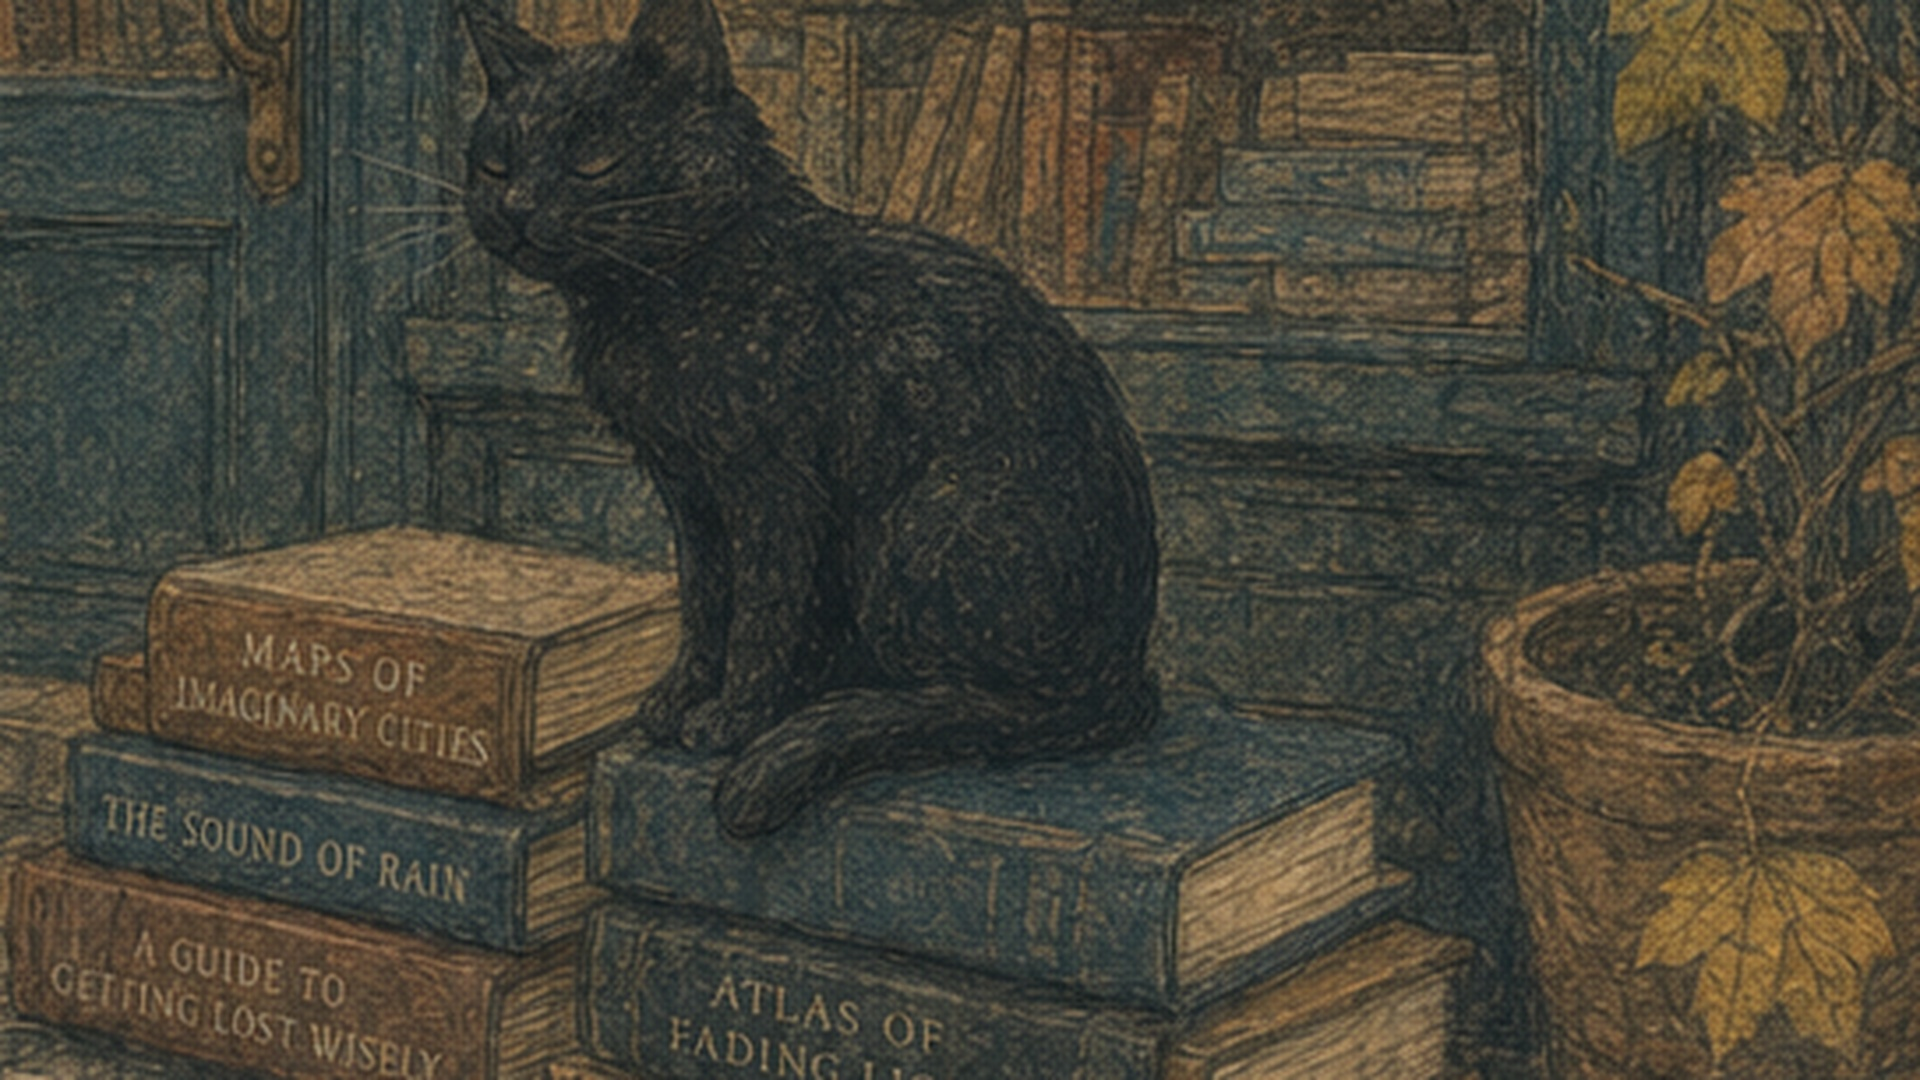
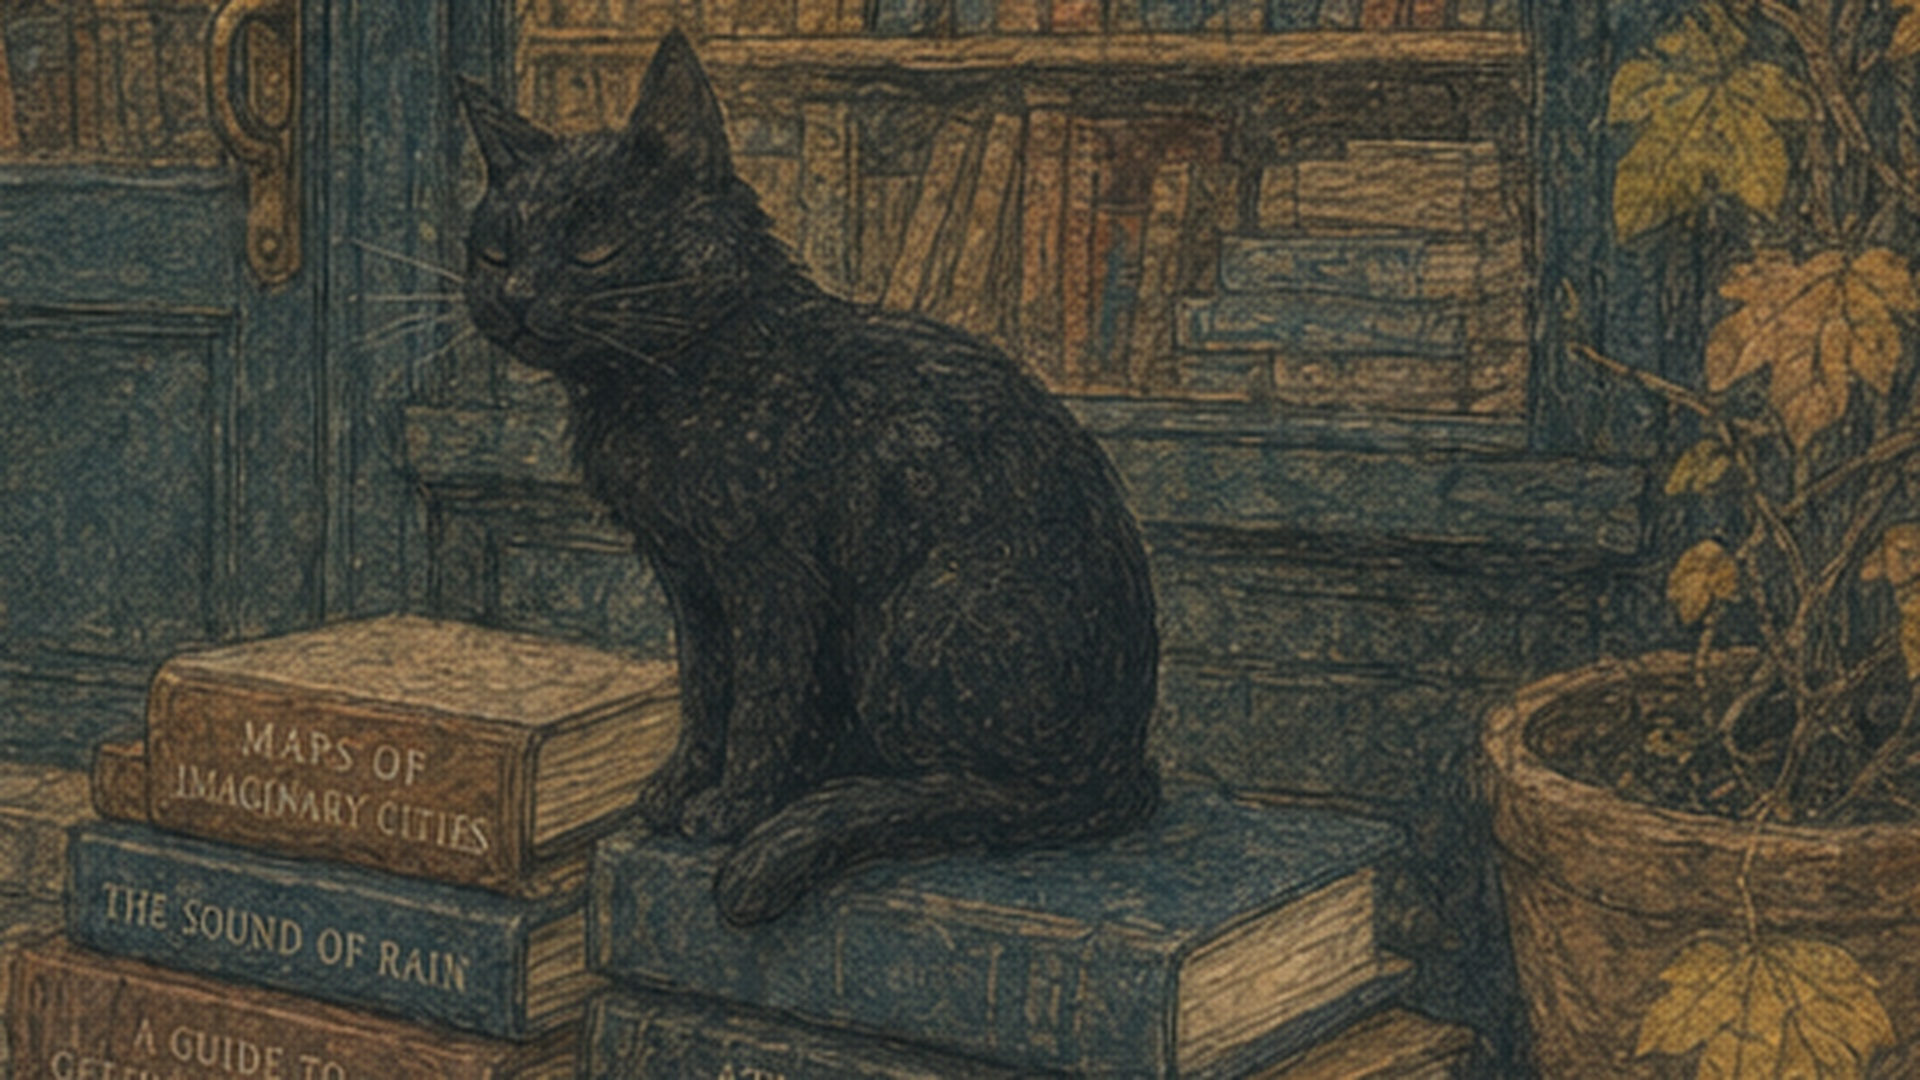
Cat crop: include ears
Claude-Session: https://claude.ai/code/session_01QRci8T51BY6ctX5Dmkwj14

diff --git a/PROJECT_NOTES.md b/PROJECT_NOTES.md
@@ -2650,4 +2650,4 @@ Shorts — НЕ делаем. Названия/шрифт/подвал — не 
 - 15.10 ХВОСТ ОСТАНОВЛЕН (решение автора: «надо заканчивать», хожу по кругу, то палка, то змея). Кот выходит БЕЗ хвоста. Что ей нужно (на будущее): кот сидит на задних лапах, передние стоят впереди — хвост мягко накрывает/обнимает передние лапы и плавно возвращается; у меня хвост изгибается в сторону от кота, возвращается палкой и замирает. Мой вывод: деформацией плоской картинки «накрыть лапы» не выйти — хвосту надо лечь поверх лап, а таких пикселей на рисунке нет; нужен второй кадр, нарисованный с хвостом вокруг лап, и плавный переход между кадрами. Не предлагать, пока она сама не вернётся к теме. Пробы — tools/proby/hvost_*.py, table_drafts/hvost_*.mp4.
 - 15.10 ПОПРАВКА: «не делай хвосты/тошнит» — шутка, я поняла буквально. Идею хвоста она НЕ бросает: тайм-аут, сначала ДУМАЕМ, где затык, без кода (просит не бежать кодить — уже не первый раз). Листья: «история закрыта», поправить только финал (лечь/уйти за границу), размер и форму.
 - 15.10 автор: «выйди из коробки» — искать готовые инструменты/ИИ/простые программы (лучше бесплатно), где она руками за 2–3 минуты, а я потом кодом анализирую и повторяю в других выпусках. Предложила 3 пути: (1) ИИ-видео по картинке (Sora/Kling/Veo/Runway — что у неё есть) → я вырезаю из него ТОЛЬКО хвост мягкой маской и вклеиваю в неподвижный кадр; (2) снять движение хвоста кота на коврике по кадрам (чёрное на бежевом легко выделяется) и перенести на нашего; (3) она рисует 3–4 позы хвоста КАЖДУЮ отдельной картинкой — я плавно провожу между ними. Ждёт её выбора, без кода.
-- 15.10 ХВОСТ ЧЕРЕЗ fal.ai (её идея; остаток ~5,9 $): видео по картинке (Kling i2v ~0,07 $/с у 2.5 Turbo Pro; LTX-2 fast ~0,04 $/с; цены перепроверить на странице). Для неё кадр table_drafts/kot_dlya_ozhivleniya.jpg = кроп оригинала x880 y410 ширина 544 (16:9), увеличен до 1920×1080 — обратное совмещение: x = 880 + X·544/1920, y = 410 + Y·306/1080. Я потом вырезаю из видео только хвост и вклеиваю в неподвижный кадр.
+- 15.10 ХВОСТ ЧЕРЕЗ fal.ai (её идея; остаток ~5,9 $): видео по картинке (Kling i2v ~0,07 $/с у 2.5 Turbo Pro; LTX-2 fast ~0,04 $/с; цены перепроверить на странице). Для неё кадр table_drafts/kot_dlya_ozhivleniya.jpg = кроп оригинала x880 y385 ширина 544 (16:9), увеличен до 1920×1080 — обратное совмещение: x = 880 + X·544/1920, y = 385 + Y·306/1080. Я потом вырезаю из видео только хвост и вклеиваю в неподвижный кадр.
